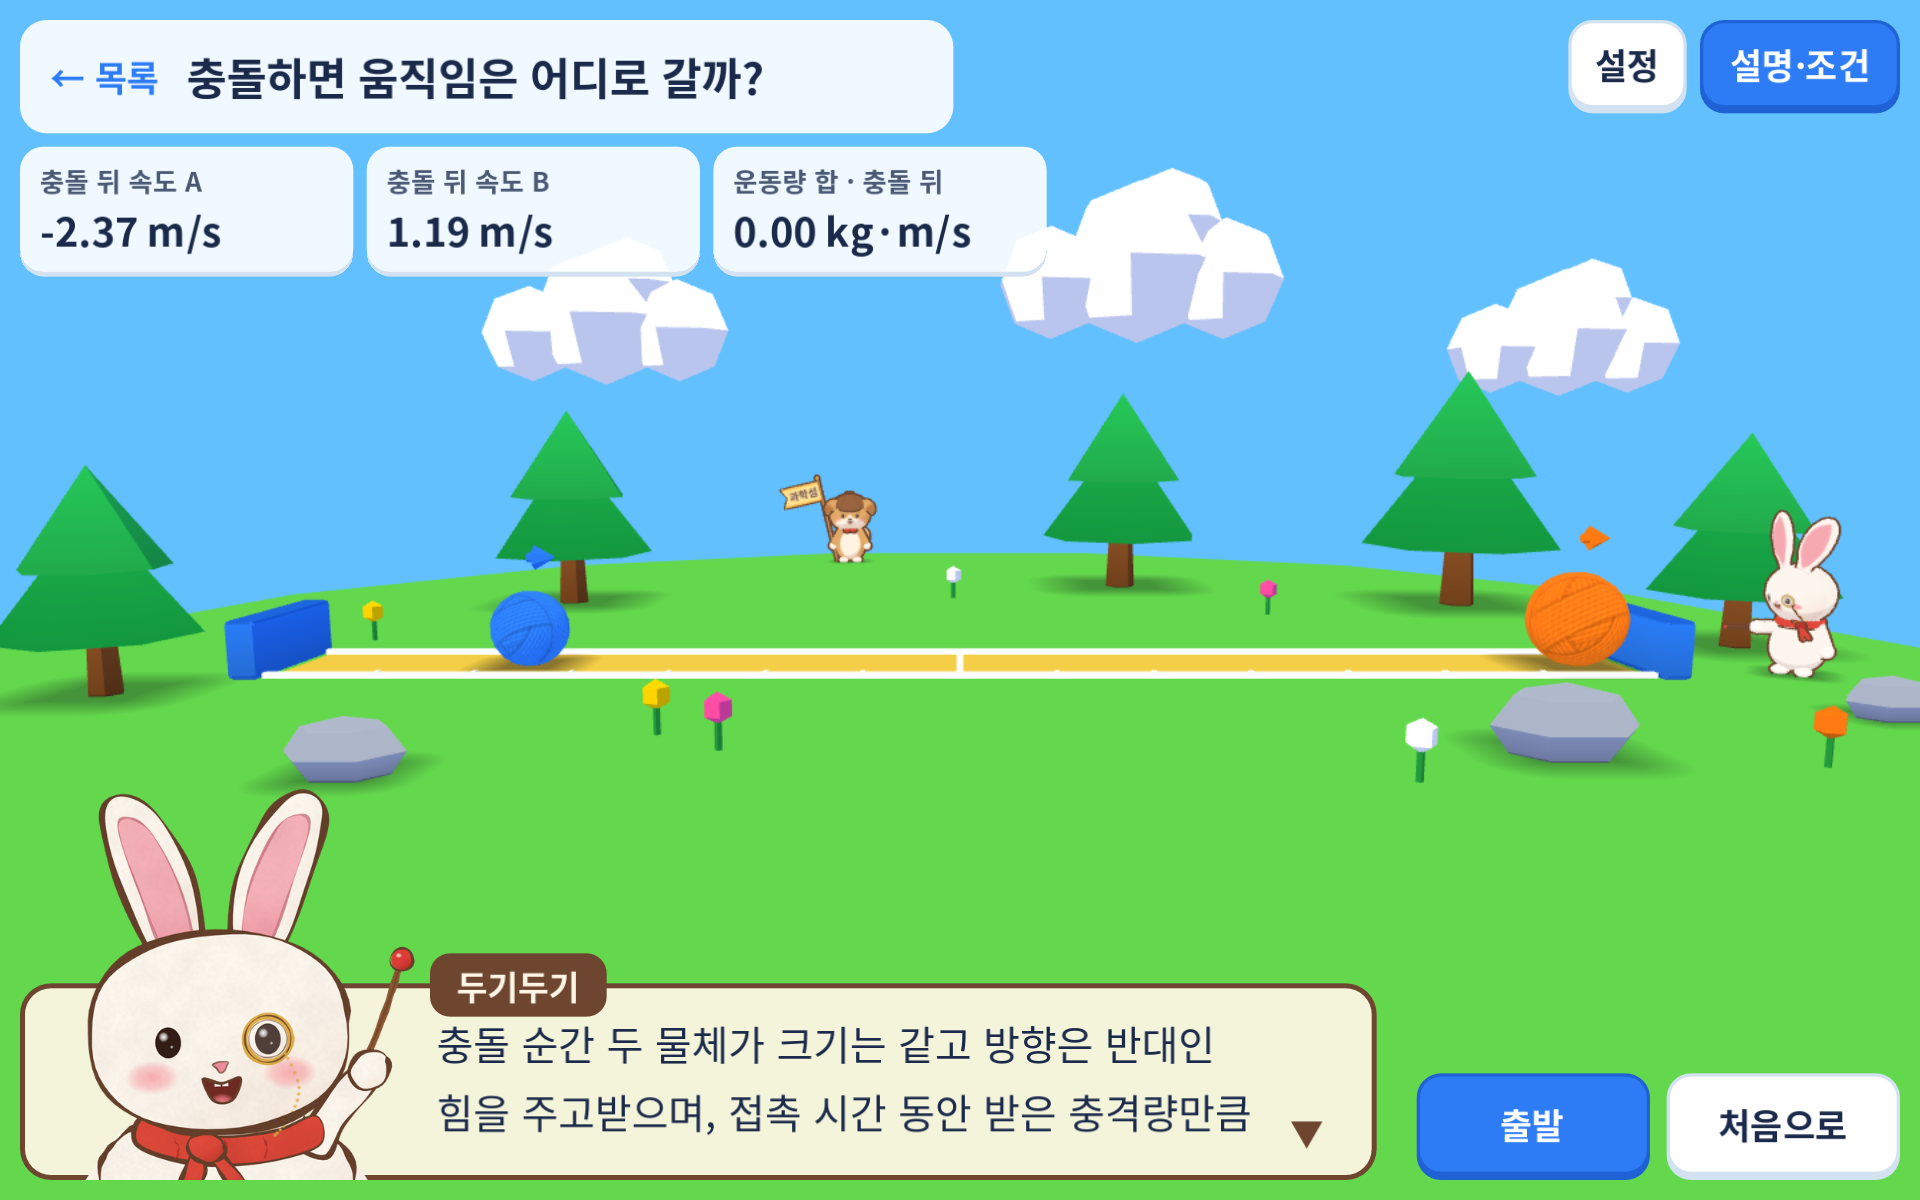
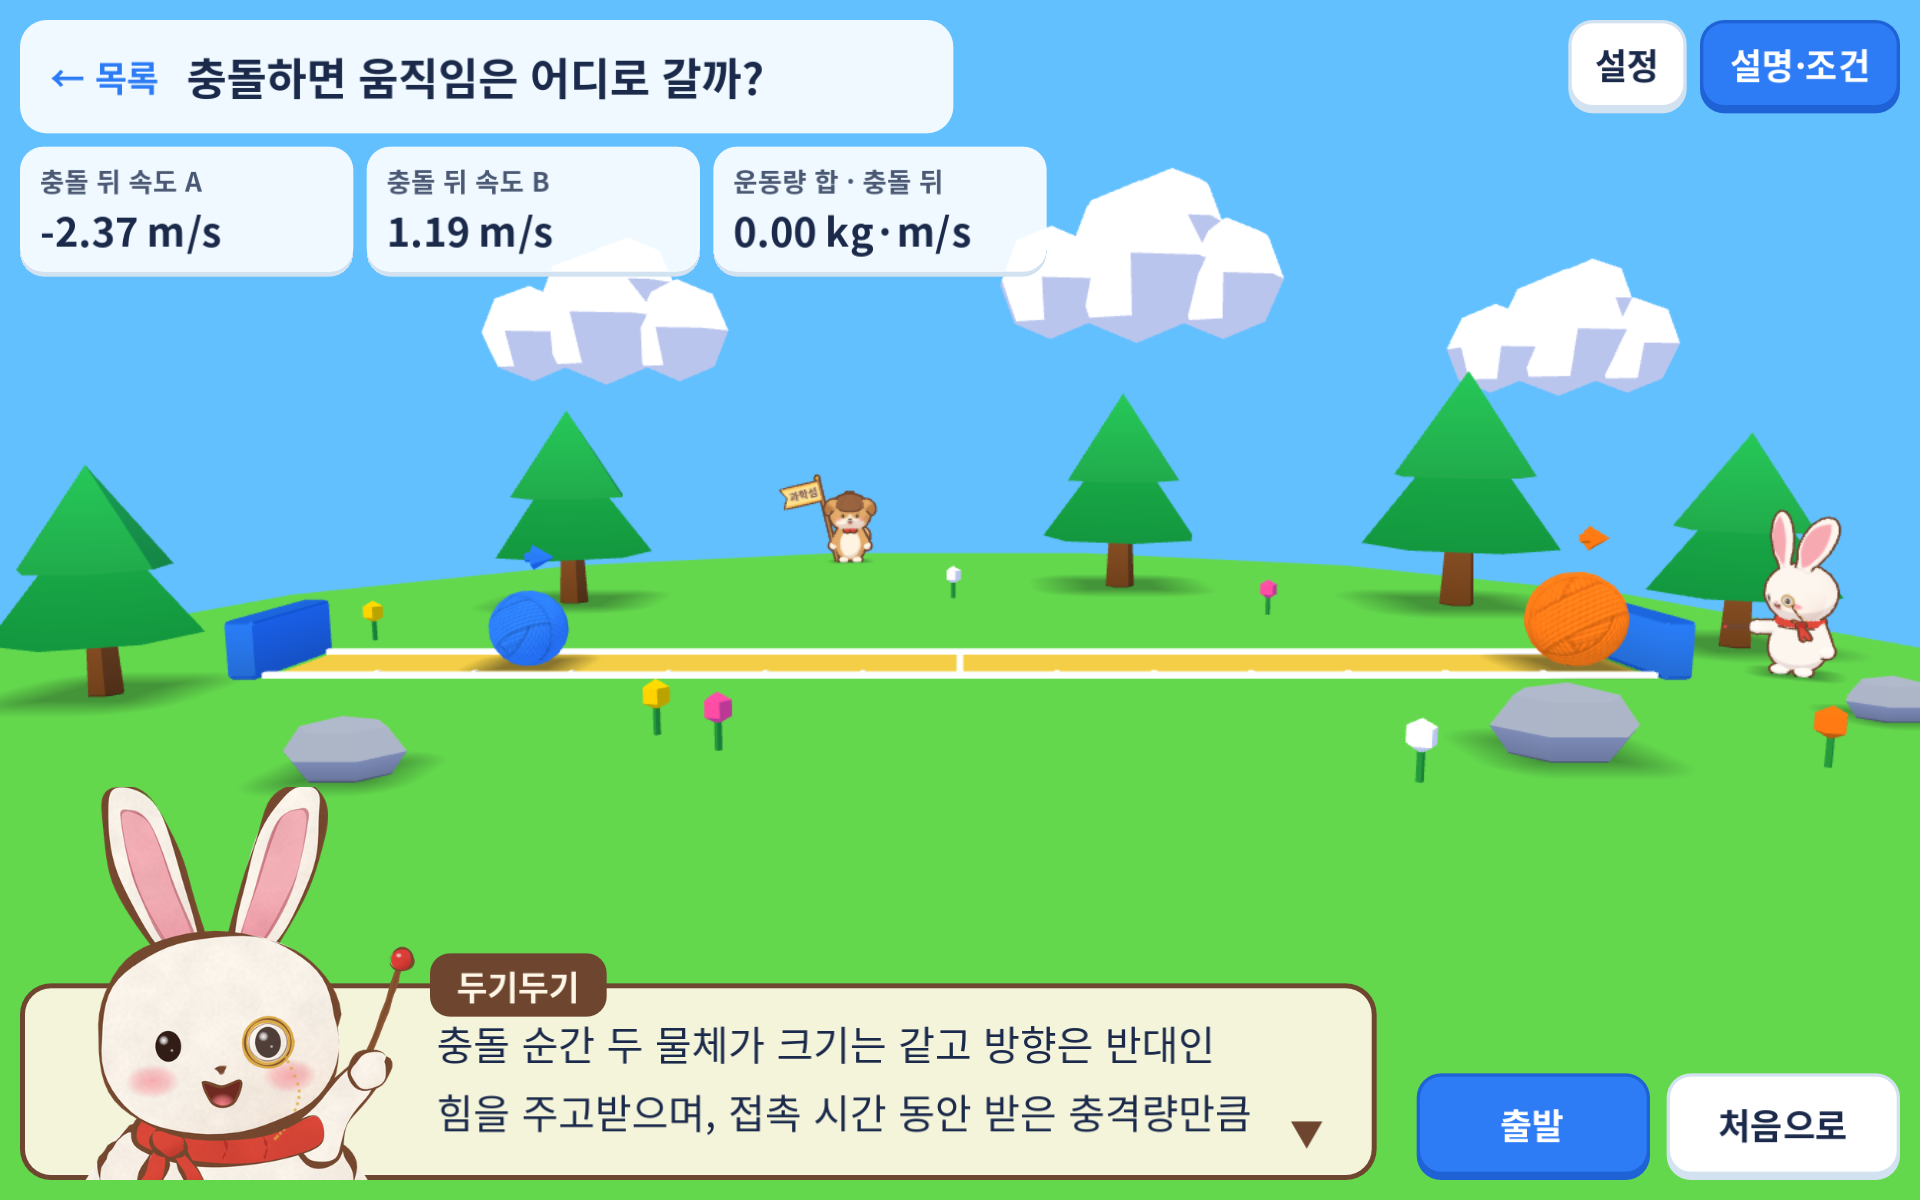
feat: 2D 초상화를 참고 그림에 더 가깝게(둥근 얼굴, 휜 귀, 혀만 보이는 입, 옆 매듭), 가리키는 점을 실행 내내 시험

Changed region(s): [[0.0312, 0.6475, 0.1875, 0.8017], [0.0625, 0.8017, 0.1875, 0.9867], [0.0312, 0.8017, 0.0625, 0.925]]

diff --git a/apps/lab3d/art_src/characters/dugi_portrait_2d.py b/apps/lab3d/art_src/characters/dugi_portrait_2d.py
@@ -30,7 +30,7 @@ from PIL import Image, ImageChops, ImageFilter
 SS = 2                      # supersampling: drawn at size * SS, then reduced
 BASE = 512.0                # design units (the drawing is laid out on a 512 x 512 page)
 
-INK = (0.40, 0.25, 0.17)    # warm brown ink
+INK = (0.47, 0.29, 0.19)    # warm brown ink
 FUR = (1.0, 0.976, 0.94)
 FUR_SHADE = (0.94, 0.86, 0.80)
 PINK = (0.97, 0.70, 0.73)
@@ -95,7 +95,7 @@ def path(ctx, pts, closed=True):
         ctx.close_path()
 
 
-def ink(ctx, rng, pts, closed=True, w=4.2, var=0.45, jitter=0.9, taper=True, color=INK, alpha=1.0):
+def ink(ctx, rng, pts, closed=True, w=4.2, var=0.65, jitter=1.1, taper=True, color=INK, alpha=1.0):
     """A hand-inked line: a ribbon whose width breathes along the stroke (and tapers at open ends),
     nudged off the exact curve by a smooth wobble."""
     n = len(pts)
@@ -130,7 +130,7 @@ def ink(ctx, rng, pts, closed=True, w=4.2, var=0.45, jitter=0.9, taper=True, col
         ctx.fill()
 
 
-def wash(ctx, rng, pts, base, shade, light_dir=(-0.5, -0.8), blobs=7, blob_alpha=0.05, rim=0.55):
+def wash(ctx, rng, pts, base, shade, light_dir=(-0.5, -0.8), blobs=7, blob_alpha=0.08, rim=0.65):
     """Flat fill + a soft watercolour shading: darker toward the side away from the light, a few
     faint blotches, all clipped to the shape."""
     xs = [p[0] for p in pts]
@@ -186,13 +186,14 @@ def rotate_pts(pts, ang, ox, oy):
 
 def ear(cx, base_y, tip_y, half_w, lean):
     """An ear as a long rounded leaf from the head top (base) up to a round tip."""
+    bend = -0.16 * lean   # the ear bows outward a little
     pts = [
         (cx - half_w * 0.55, base_y),
-        (cx - half_w * 0.95 + lean * 0.35, base_y - (base_y - tip_y) * 0.45),
+        (cx - half_w * 0.95 + lean * 0.35 - bend, base_y - (base_y - tip_y) * 0.45),
         (cx - half_w * 0.70 + lean * 0.85, tip_y + half_w * 0.55),
         (cx + lean, tip_y),
         (cx + half_w * 0.75 + lean * 0.85, tip_y + half_w * 0.6),
-        (cx + half_w * 0.95 + lean * 0.35, base_y - (base_y - tip_y) * 0.45),
+        (cx + half_w * 0.95 + lean * 0.35 - bend, base_y - (base_y - tip_y) * 0.45),
         (cx + half_w * 0.55, base_y),
     ]
     return catmull(pts, closed=True, steps=10)
@@ -212,7 +213,7 @@ def draw(expr, size, seed=7):
 
     tilt = {"talk": -0.06, "smile": 0.07, "point": -0.04}[expr]
     neck = (256.0, 452.0)
-    hx, hy, hrx, hry = 252.0, 336.0, 150.0, 120.0
+    hx, hy, hrx, hry = 252.0, 340.0, 138.0, 122.0
 
     # Body / shoulders (behind the head), cut by the frame bottom.
     body = catmull([(104, 560), (112, 482), (166, 438), (256, 426), (346, 438), (400, 482), (408, 560)], closed=True, steps=10)
@@ -222,7 +223,7 @@ def draw(expr, size, seed=7):
 
     # The pointing paw and stick (viewer's right), behind the scarf and the head's cheek.
     if expr == "point":
-        arm = catmull([(338, 470), (360, 430), (392, 392), (418, 372), (436, 384), (424, 410), (392, 448), (372, 486)], closed=True, steps=8)
+        arm = catmull([(330, 452), (352, 426), (388, 392), (416, 372), (436, 386), (424, 410), (396, 446), (384, 488), (350, 492)], closed=True, steps=8)
         wash(ctx, rng, arm, FUR, FUR_SHADE, light_dir=(-0.8, -0.4), rim=0.5)
         ink(ctx, rng, arm, w=4.0)
         # stick from the paw up and out to the right, red ball tip
@@ -245,21 +246,21 @@ def draw(expr, size, seed=7):
         x = 190 + 55 * k + rng.uniform(-6, 6)
         ink(ctx, rng, catmull([(x, 462), (x + 6, 476), (x + 2, 488)], closed=False, steps=6), closed=False, w=2.2, color=SCARF_SHADE, alpha=0.8)
     tails = [
-        catmull([(220, 478), (206, 506), (196, 530), (218, 530), (232, 500)], closed=True, steps=6),
-        catmull([(236, 480), (252, 508), (262, 530), (282, 524), (256, 486)], closed=True, steps=6),
+        catmull([(178, 472), (160, 500), (150, 526), (172, 528), (188, 494)], closed=True, steps=6),
+        catmull([(192, 474), (204, 502), (212, 528), (232, 522), (210, 480)], closed=True, steps=6),
     ]
     for t in tails:
         wash(ctx, rng, t, SCARF, SCARF_SHADE, rim=0.5, blobs=3)
         ink(ctx, rng, t, w=3.8)
-    knot = ellipse(232, 474, 22, 18, n=28, rot=0.2)
+    knot = ellipse(188, 468, 21, 17, n=28, rot=0.4)
     wash(ctx, rng, knot, SCARF, SCARF_SHADE, rim=0.6, blobs=2)
     ink(ctx, rng, knot, w=4.0)
 
     # Ears (behind the head): long, slightly spread, round tips; pink inside.
     spread = 1.25 if expr == "smile" else 1.0
     ears = [
-        (ear(208, 252, 60, 46, -60 * spread), ear(209, 246, 88, 26, -55 * spread)),
-        (ear(298, 250, 64, 46, 62 * spread), ear(297, 244, 92, 26, 57 * spread)),
+        (ear(214, 248, 50, 42, -66 * spread), ear(215, 242, 80, 23, -60 * spread)),
+        (ear(292, 246, 56, 42, 70 * spread), ear(291, 240, 86, 23, 64 * spread)),
     ]
     for outer, inner in ears:
         outer = rotate_pts(outer, tilt, *neck)
@@ -275,7 +276,7 @@ def draw(expr, size, seed=7):
         a = 2 * math.pi * k / 64
         c, sn = math.cos(a), math.sin(a)
         e = 2.0 / 2.25   # a soft superellipse: round, a little fuller than an ellipse
-        x = math.copysign(abs(c) ** e, c) * hrx * (1.0 + 0.05 * max(0.0, sn))   # fuller cheeks below
+        x = math.copysign(abs(c) ** e, c) * hrx * (1.0 + 0.10 * max(0.0, sn) * (1.0 - abs(sn) * 0.5))   # fuller cheeks below
         y = math.copysign(abs(sn) ** e, sn) * hry * (0.94 if sn < 0 else 1.0)
         head_pts.append((hx + x, hy + y))
     head = rotate_pts(head_pts, tilt, *neck)
@@ -301,8 +302,8 @@ def draw(expr, size, seed=7):
             soft_spot(ctx, x - 5, ey - 7, 6.0, 6.0, (1, 1, 1), 1.0)
             soft_spot(ctx, x + 4, ey + 5, 2.0, 2.0, (1, 1, 1), 0.8)
     # nose
-    nose = catmull([(hx - 9, ey + 26), (hx + 9, ey + 26), (hx, ey + 37)], closed=True, steps=6)
-    ctx.set_source_rgb(*PINK_DEEP)
+    nose = catmull([(hx - 6, ey + 27), (hx + 6, ey + 27), (hx, ey + 34)], closed=True, steps=6)
+    ctx.set_source_rgb(*INK)
     path(ctx, nose)
     ctx.fill()
     ink(ctx, rng, nose, w=1.8, var=0.2, alpha=0.7)
@@ -317,11 +318,7 @@ def draw(expr, size, seed=7):
         ctx.save()
         path(ctx, mouth)
         ctx.clip()
-        soft_spot(ctx, hx, ey + 72, 15, 11, TONGUE, 1.0)
-        ctx.set_source_rgb(1, 1, 1)
-        ctx.rectangle(hx - 8, ey + 45, 7, 8)
-        ctx.rectangle(hx + 1, ey + 45, 7, 8)
-        ctx.fill()
+        soft_spot(ctx, hx, ey + 70, 16, 13, TONGUE, 1.0)
         ctx.restore()
         ink(ctx, rng, mouth, w=3.0, var=0.3)
     # monocle on the eye at the viewer's right, with a thin chain to the scarf
@@ -356,7 +353,7 @@ def paper(S, seed):
     """A soft paper grain: two layers of seeded value noise, 0.93-1.0."""
     rng = random.Random(seed * 31 + 5)
     layers = []
-    for cells, lo in ((24, 0.975), (128, 0.985)):
+    for cells, lo in ((24, 0.968), (128, 0.982)):
         small = Image.new("L", (cells, cells))
         small.putdata([int(255 * rng.uniform(lo, 1.0)) for _ in range(cells * cells)])
         layers.append(small.resize((S, S), Image.BICUBIC).filter(ImageFilter.GaussianBlur(1)))

diff --git a/apps/lab3d/docs/art-direction.md b/apps/lab3d/docs/art-direction.md
@@ -442,8 +442,8 @@ Blender 참고 그림(갈색 외곽선 + 한 단계 셀 셰이딩)과 같은 동
 참고 그림(RPG 대화창: 아래쪽 반투명 상자, 이름표, 큰 상반신 그림, ▼)을 앱의 동화책 파스텔에 맞췄다. `DialogueBox`(`scripts/shell/dialogue_box.gd`).
 
 - 상자: 3D 뷰 아래쪽, 왼쪽 여백(12)부터 액션 버튼 왼쪽까지(두기두기가 그 높이에 서 있으면 그의 왼쪽까지). 크림색 종이 `UiTheme.DIALOGUE_PAPER` `#fff6e6`(불투명도 93 %), 캐릭터 외곽선 갈색 테두리 3 단위(`ArtPalette.OUTLINE`), 모서리 18. 위 가장자리에 갈색 이름표 "두기두기"(크림 글자 20). 글 24 단위(SM-P200 가로에서 40 px), 2줄.
-- 초상화: 두기두기 상반신 236 × 236 단위가 늘 상자 왼쪽 끝에 서서 위 가장자리를 넘고(옛날 게임 대화창처럼 자리가 늘 같다, 2026-10-24 사용자 결정), 이름표는 그 오른쪽 위에 붙는다. 초상화가 가리키는 점을 덮을지는 자리로 막는다: 실험마다 가리키는 점이 대화창 위에 오는지 시험한다(11개 실험 × 폰·태블릿). 표정: 첫 쪽은 막대를 든 "point"(막대가 오른쪽, 글과 장면 쪽), 다음 쪽은 "talk", 마지막 쪽을 다 보이면 "smile".
-- 초상화 그림(2026-10-24 사용자 요청 "캡처본 말고 원래 준 2D 그림처럼"): 사용자 참고 그림(두기두기 토끼, 동화책 장면)의 손그림 화풍을 코드로 그린 2D 일러스트다. 살짝 고르지 않고 굵기가 변하는 따뜻한 갈색 잉크 선, 평평한 크림색 칠에 수채 같은 부드러운 그늘과 종이 결, 분홍 속귀·볼, 하이라이트가 있는 점 눈, 작게 벌린 웃는 입, 매듭 있는 빨간 스카프, 그리고 3D 모델과 맞춘 금색 외눈 안경(보는 사람 기준 오른쪽 눈)과 가는 사슬, 가리키는 표정의 막대(빨간 끝). `art_src/characters/dugi_portrait_2d.py`(`python3 apps/lab3d/art_src/characters/dugi_portrait_2d.py --out apps/lab3d/assets/characters/portraits`, pycairo + Pillow) → `assets/characters/portraits/dugi_{point,talk,smile}.webp`(512 px, 무손실 WebP, 투명 배경, 각 110–125 KB). 흔들림은 모두 시드 고정 난수라 실행할 때마다 같은 파일이 나온다. 앞선 3D 렌더 초상화(Blender)는 버렸다.
+- 초상화: 두기두기 상반신 236 × 236 단위가 늘 상자 왼쪽 끝에 서서 위 가장자리를 넘고(옛날 게임 대화창처럼 자리가 늘 같다, 2026-10-24 사용자 결정), 이름표는 그 오른쪽 위에 붙는다. 초상화·상자가 가리키는 점을 덮지 않는 것은 상자를 옮겨서가 아니라 실험 자리로 지킨다: 실험마다 한 번 실행하는 동안 표본으로 뽑은 가리키는 점(움직이는 몸체 포함)이 대화창 위에 있는지 시험한다(11개 실험 × 폰·태블릿). 글은 초상화 폭의 94 %(막대 끝)를 피해 시작한다. 표정: 첫 쪽은 막대를 든 "point"(막대가 오른쪽, 글과 장면 쪽), 다음 쪽은 "talk", 마지막 쪽을 다 보이면 "smile".
+- 초상화 그림(2026-10-24 사용자 요청 "캡처본 말고 원래 준 2D 그림처럼"): 사용자 참고 그림(두기두기 토끼, 동화책 장면)의 손그림 화풍을 코드로 그린 2D 일러스트다. 살짝 고르지 않고 굵기가 변하는 따뜻한 갈색 잉크 선, 평평한 크림색 칠에 수채 같은 부드러운 그늘과 종이 결, 분홍 속귀·볼, 하이라이트가 있는 점 눈, 작게 벌린 웃는 입, 매듭 있는 빨간 스카프, 그리고 3D 모델과 맞춘 금색 외눈 안경(보는 사람 기준 오른쪽 눈)과 가는 사슬, 가리키는 표정의 막대(빨간 끝). `art_src/characters/dugi_portrait_2d.py`(`python3 apps/lab3d/art_src/characters/dugi_portrait_2d.py --out apps/lab3d/assets/characters/portraits`, pycairo + Pillow) → `assets/characters/portraits/dugi_{point,talk,smile}.webp`(512 px, 무손실 WebP, 투명 배경, 각 108–120 KB). 흔들림은 모두 시드 고정 난수라 실행할 때마다 같은 파일이 나온다. 앞선 3D 렌더 초상화(Blender)는 버렸다.
 - 글: 실험의 `observe`(사이드바 관찰 포인트와 같은 문구)를 그대로 쓰고, 띄어쓰기 자리에서만 줄·쪽을 나눈다(2줄이 한 쪽, 넘치는 낱말은 글자 사이에서). 쪽을 다시 이으면 원문과 같다(시험, 11개 실험 × 폰·태블릿). 충돌 문구는 태블릿에서 2쪽이다.
 - 동작: 한 쪽을 초당 28글자로 타자 치듯 보인다. 탭하면 그 쪽을 다 보이고, 다시 탭하면 다음 쪽, 마지막 쪽에서 탭하면 닫힌다. 손대지 않으면 다 보인 쪽은 3초 + 글자당 0.06초 뒤 넘어가고 마지막 쪽 뒤 닫힌다. ▼는 쪽을 다 보였을 때 2 Hz로 깜빡인다. 닫히면 두기두기가 팔을 내린다. 대화창은 상자와 초상화 몸통(아래 2/3)의 탭만 받는다. 상자 위 빈 띠와 초상화 귀 쪽은 3D 뷰로 지나간다(그 아래 한 손가락 조작·카메라 제스처는 그대로).
 - 겹침 규칙(시험): 상자·초상화가 뷰 안, 제목·핵심 카드·위 버튼·액션·안내와 겹치지 않고, 3D 두기두기와 그가 가리키는 점을 덮지 않는다. 사이드바가 열리면 그 프레임에 닫힌다(그 프레임의 탭이 버튼에 닿게). 사이드바가 열려 있는 동안 시작한 설명은 가리키기만 한다. 두기두기가 멈추면(액션·조건·처음으로) 바로 닫힌다. 처음 여는 실험의 몸짓 안내는 대화창이 열리면 사라진다.
